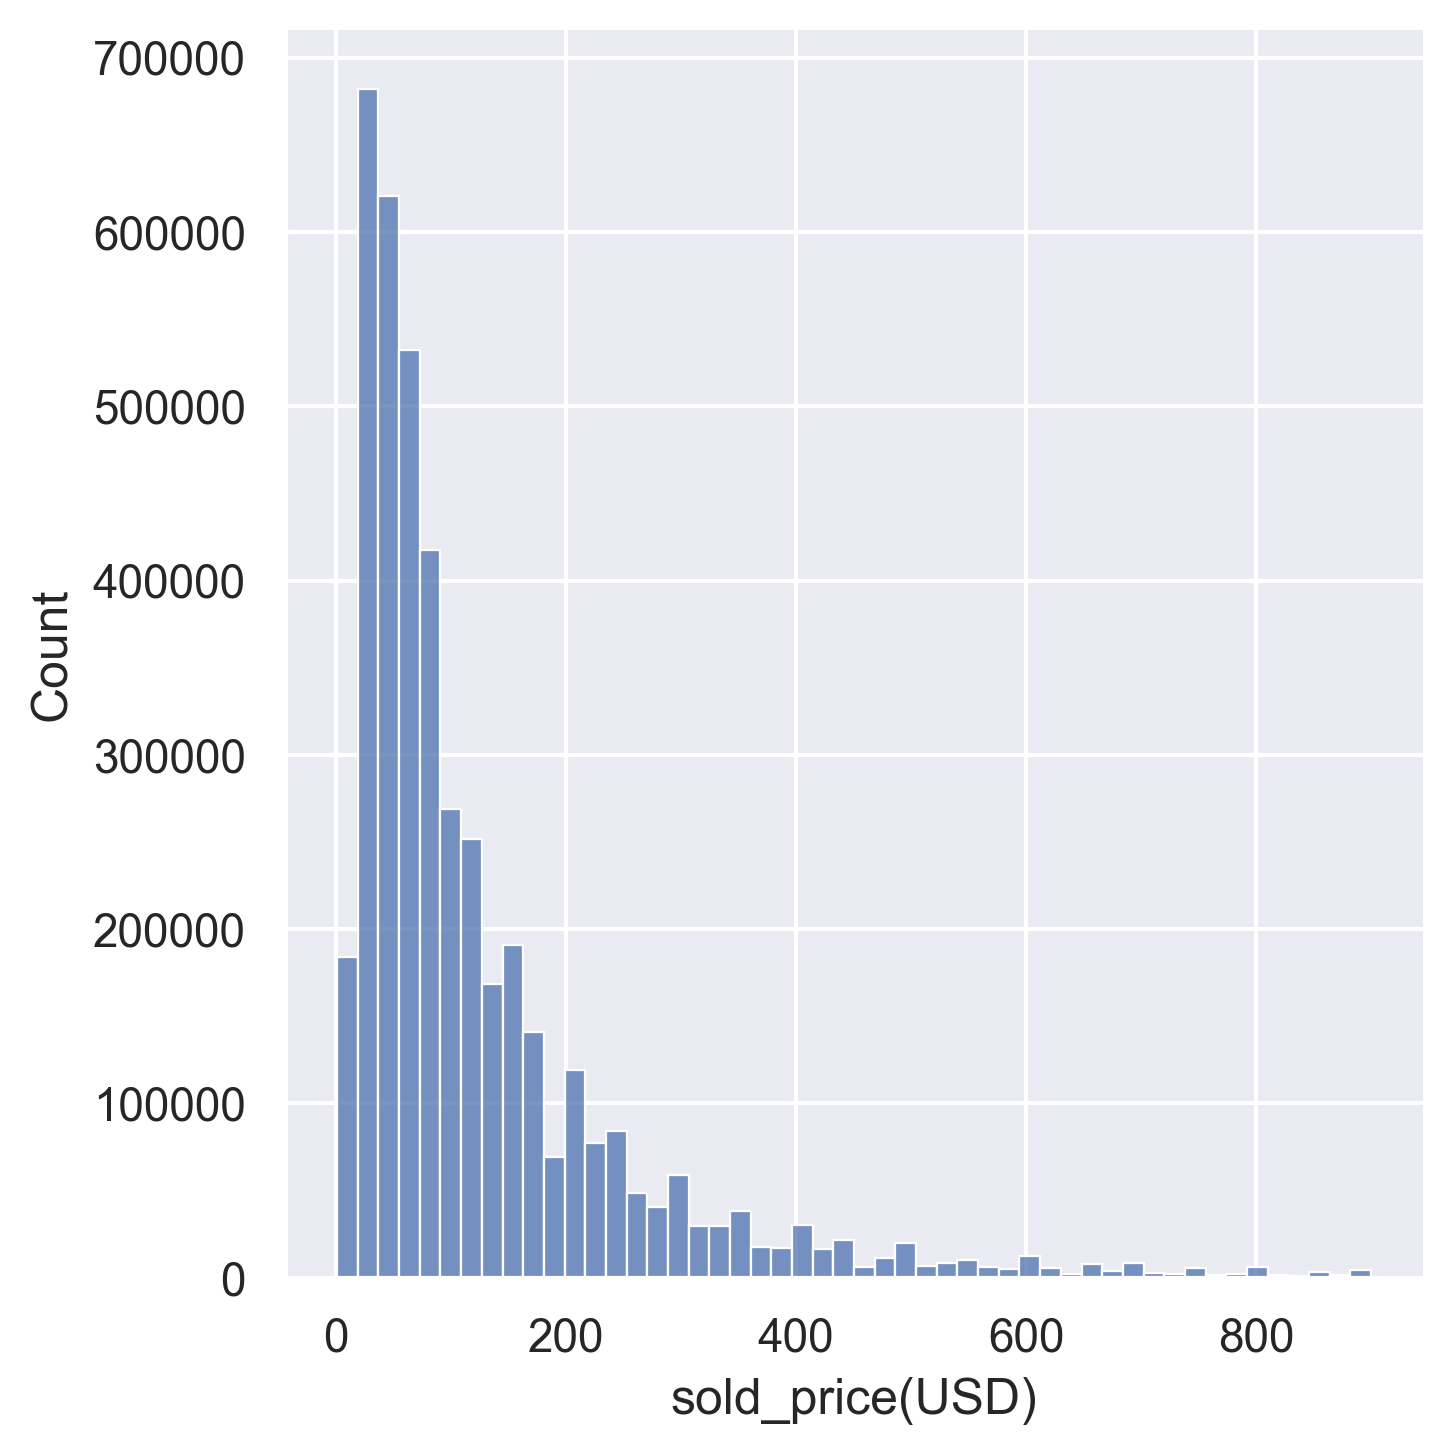
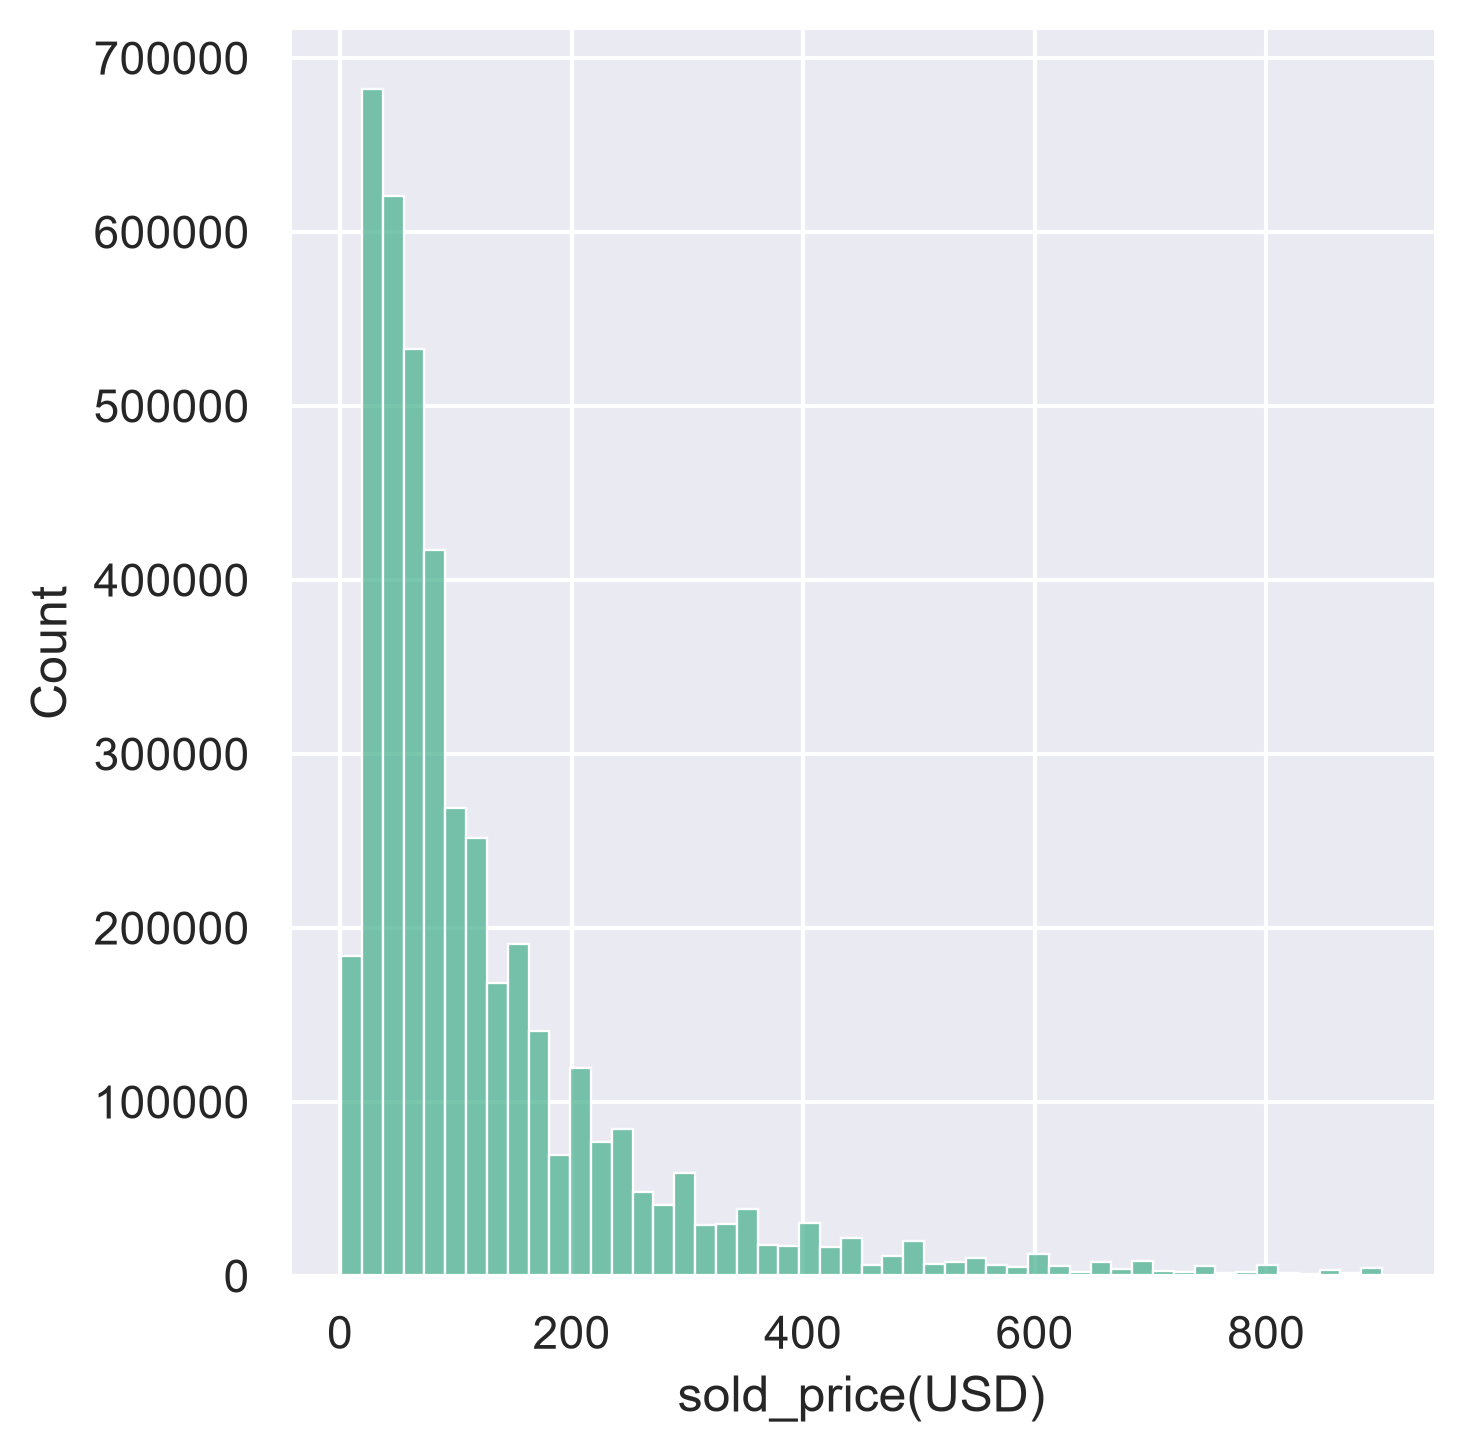
changed plots color and resized them

diff --git a/README.md b/README.md
@@ -9,7 +9,7 @@
   In log space both become the same distance. 
   Second, the price distribution is heavy-tailed (median $80, max $35,000), so squared error on raw dollars would be dominated by a few expensive listings.
 
-<img src="data/plots/price_distribution.png" width="49%"> <img src="data/plots/log_price_distribution.png" width="49%">
+<img src="data/plots/price_distribution.png" width="49%" height="800"> <img src="data/plots/log_price_distribution.png" width="49%" height="800">
 
   For the model I picked LightGBM - gradient boosting framework based on decision tree algorithms because features are mostly 
   heterogeneous, high-cardinality categoricals, so there is no need for scaling, and GBDTs remain the strongest baseline on tabular data neural alternatives mostly fail to beat them.
@@ -45,7 +45,7 @@ Final model, per-fold range: 0.505–0.564. Repeated identical runs differ by
 | > $800    | 0.853 (0.825–0.918) | 0.651 | 21.3% | 1,190–1,737 |
 | **All**   | **0.520** (0.505–0.564) | 0.385 | 36.0% | 57,936–80,637 |
 
-<img src="data/plots/true_vs_pred.png">
+<img src="data/plots/true_vs_pred.png" width="60%" height="800">
 
 Error roughly doubles from the $50–250 band to $800+, and within-20% halves. Accuracy degrades at both ends of the price range, worst above $800 — where the model has the least data (~1,500 listings per fold) and prices depend most on factors the features don’t capture.
 
